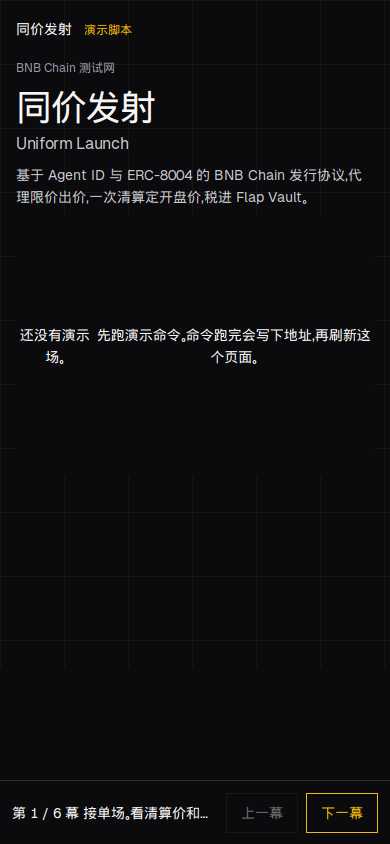
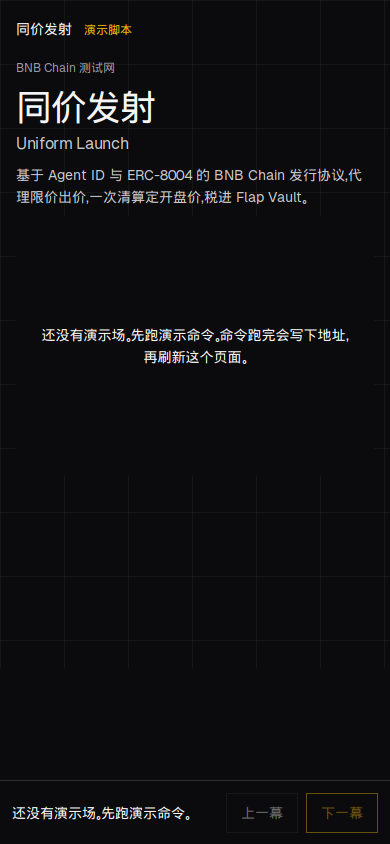
没有演示场的说明在手机上连成一段。

diff --git a/web/src/App.tsx b/web/src/App.tsx
@@ -910,10 +910,10 @@ export function App() {
       </main>
       {demoOn && (
         <div className="demo-bar">
-          <p>第 {scene + 1} / {SCENES.length} 幕 {SCENES[scene]}</p>
+          <p>{demoState === "missing" ? "还没有演示场。先跑演示命令。" : `第 ${scene + 1} / ${SCENES.length} 幕 ${SCENES[scene]}`}</p>
           <div>
-            <button type="button" onClick={() => setScene((n) => Math.max(0, n - 1))} disabled={scene === 0}>上一幕</button>
-            <button type="button" className="next" onClick={() => setScene((n) => Math.min(SCENES.length - 1, n + 1))} disabled={scene === SCENES.length - 1}>下一幕</button>
+            <button type="button" onClick={() => setScene((n) => Math.max(0, n - 1))} disabled={demoState === "missing" || scene === 0}>上一幕</button>
+            <button type="button" className="next" onClick={() => setScene((n) => Math.min(SCENES.length - 1, n + 1))} disabled={demoState === "missing" || scene === SCENES.length - 1}>下一幕</button>
           </div>
         </div>
       )}
@@ -955,9 +955,8 @@ function DemoMissing() {
         <p className="user-line"><Zh text={USER_LINE} /></p>
       </div>
       <div className="plot-wrap empty-plot">
-        <div className="empty">
-          <p><Zh text="还没有演示场。" /></p>
-          <p><Zh text="先跑演示命令。命令跑完会写下地址，再刷新这个页面。" /></p>
+        <div className="empty stack">
+          <p><Zh text="还没有演示场。先跑演示命令。命令跑完会写下地址，再刷新这个页面。" /></p>
         </div>
       </div>
     </div>

diff --git a/web/src/styles.css b/web/src/styles.css
@@ -361,6 +361,8 @@ svg.plot { display: block; touch-action: none; background: var(--bg); }
   pointer-events: none;
 }
 .empty.note { align-items: flex-end; padding: 0 var(--space-4) 36px; }
+.empty.stack { padding: 0 24px; }
+.empty.stack p { max-width: 36em; margin: 0; }
 .bids { margin-top: var(--space-1); }
 .bid {
   display: grid;

diff --git a/docs/work-log.md b/docs/work-log.md
@@ -85,3 +85,5 @@ Wed Nov 25 08:23:57 PM UTC 2026
 MCP 工具失败时带 isError。来源编号不对的调用在测试里对过。
 Wed Nov 25 08:24:16 PM UTC 2026
 演示模式读不到 demo.json 时写明先跑演示命令，不再绕回自己。1440 和 390 各留了一张。
+Wed Nov 25 08:24:50 PM UTC 2026
+没有演示场的句子改成一段，手机上不再被拆开。演示条这时不切幕。
